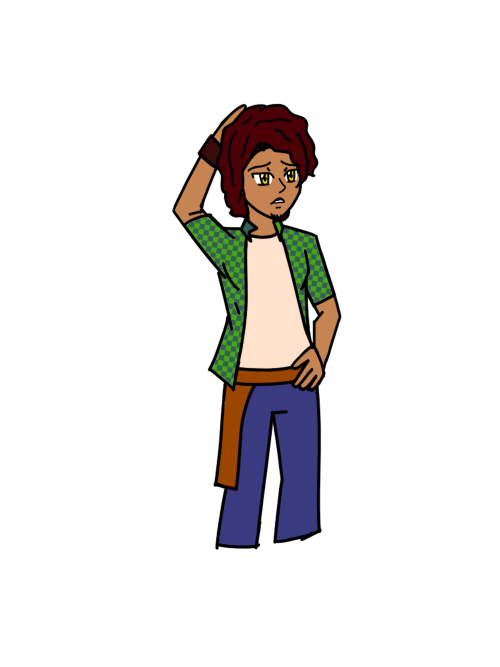
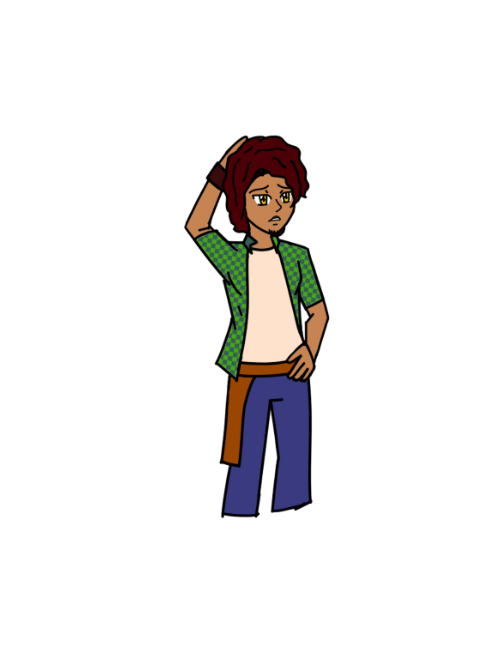
bootstrap and css redo
had to redo all bootstrap media and a few css

Changed region(s): [[0.33, 0.1499, 0.69, 0.8396]]

diff --git a/css/style.css b/css/style.css
@@ -13,7 +13,7 @@ body {
 /* character setup */
 .character {
     position: absolute;
-    margin-top: -36.5%;
+    margin-top: 4%;
     margin-left: 40%;
     height: 452px;
     width: 500px;  
@@ -24,12 +24,6 @@ body {
     background: url(../media/character_draft_introL.png);
 }
 
-.merchant {
-    margin-top: -38.5%;
-    height: 477px;
-    background: url(../media/character-merchant.png);
-}
-
 .hero_happy {
     background: url(../media/character_draft2_happyL.png);
 }
@@ -38,23 +32,27 @@ body {
     background: url(../media/character_draft_upsetL.png);
 }
 
+.merchant {
+    margin-top: 0%;
+    height: 487px;
+    background: url(../media/character-merchantL.png);
+}
+
 .farmer {
     background: url(../media/character-farmerL.png);
 }
 
 .traders {
-    background: url(../media/character-traders.png);
+    background: url(../media/character-tradersL.png);
 }
 
 .granny_happy {
-    margin-top: -38%;
-    height: 470px;
+    height: 454px;
     background: url(../media/character-granny_normalL.png);
 }
 
 .granny_angry {
-    margin-top: -39%;
-    height: 483px;
+    height: 454px;
     background: url(../media/character-granny_attackL.png);
 }
 
@@ -127,6 +125,7 @@ body {
 
 .background {
     background-repeat: no-repeat;
+    background-size: cover;
 }
 
 /* For Storyline */
@@ -151,7 +150,7 @@ li {
 
 .hero_stats {
     position: absolute;
-    margin-top: 25%;
+    margin-top: 23%;
     height: 250px;
     width: 200px;
     background: rgb(153, 33, 160);
@@ -194,7 +193,7 @@ li {
     background: rgb(6, 193, 152);
     border: 3px solid rgb(0, 76, 68);
     border-radius: 20px;
-    font-size: 20px;;
+    font-size: 18px;
 }
 
 .choiceB {
@@ -205,77 +204,12 @@ button {
     color: black;
 }
 
-
-@media (max-width: 475px) {
-    
-    .story_plot {
-        position: absolute;
-        margin-top: 102%;
-        height: 170px;
-        width: 100%;
-        background: rgb(27, 154, 131);
-    }
-
-    .character {
-        position: absolute;
-        margin-top: -9%;
-        margin-left: -14%;
-        height: 439px;
-        width: 333px;
-    }
-
-    .hero {
-        background: url(../media/character_draft_intro.png);
-    }
-
-    .hero_happy {
-        background: url(../media/character_draft2_happy.png);
-    }
-
-    .hero_angry {
-        background: url(../media/character_draft_upset.png);
-    }
-
-    .merchant {
-        background: url(../media/character-merchant.png);   
-    }
-
-    .farmer {
-        margin-top: -11%;
-        margin-left: -19%;
-        height: 451px;
-        width: 343px;
-        background: url(../media/character-farmer.png);
-    }
-
-    .traders {
-        margin-top: -23px;
-        height: 424px;
-        width: 400px;
-        background: url(../media/character-traders.png);
-    }
-
-    .granny_happy {
-        margin-top: -2%;
-        height: 410px;
-        background: url(../media/character-granny_normal.png);
-    }
-
-    .granny_angry {
-        margin-top: -2%;
-        height: 410px;
-        background: url(../media/character-granny_attack.png);
-    }
+@media (max-width: 767px) {
 
     .hero_stats {
         margin-top: 0%;
-        height: 60px;
+        height: 88px;
         width: 100%;
-    }
-
-    .hero_text {
-        margin: 12px 13px 0px;
-        font-size: 15px;    
     }
 
     ul {
@@ -286,72 +220,43 @@ button {
         display: inline;
     }
 
-    .narration {
-        margin-top: 10px;
-        margin-left: 0px;
-        margin-right: 10px;
-        font-size: 10px;    
+    .hero_text {
+        margin: 25px 15px 0px;
+        font-size: 18px;
     }
-
-    /* Buttons */
-
-    .storyBtn {
-        margin-top: 29%;
-        margin-left: 0%;
-        height: 37px;
-        width: 92%;
-        font-size: 15px;
-    }
-
-    .choiceBtn {
-        margin-top: 27%;
-        height: 45px;
-        width: 45%;
-        font-size: 9px;
-    }
-
-    .choiceB {
-        margin-left: 47%;
-    }
-
-}
-
-@media (min-width: 476px) and (max-width: 959px) {
 
     .story_plot {
-        position: absolute;
-        margin-top: 53%;
-        height: 150px;
-        width: 100%;
-
-    }
-
-    .narration {
-        margin-top: 9px;
-        font-size: 11px;
+        margin-top: 100%;
+        height: 250px;
     }
 
     .character {
-        margin-top: -14%;
-        margin-left: 35%;
-        height: 400px;      
+        margin-top: -8%;
+        margin-left: -13%;
+        height: 76%;
+        width: 100%;
     }
 
     .hero {
         background: url(../media/character_draft_intro.png);
-    }
+    } 
 
     .hero_happy {
+        margin-top: 6%;
+        height: 66%;
         background: url(../media/character_draft2_happy.png);
     }
 
     .hero_angry {
+        margin-top: 6%;
+        height: 66%;
         background: url(../media/character_draft_upset.png);
     }
-
+    
     .merchant {
-        margin-top: -10%;
-        height: 373px;
+        margin-top: -9%;
+        height: 77%;
+        background: url(../media/character-merchant.png);
     }
 
     .farmer {
@@ -359,57 +264,45 @@ button {
     }
 
     .traders {
-        margin-left: 15%;
+        margin-top: -2%;
+        height: 72%;
+        background: url(../media/character-traders.png);
     }
 
     .granny_happy {
-        margin-top: -19%;
-        margin-left: 20%;    
-        height: 426px;
         background: url(../media/character-granny_normal.png);
     }
 
     .granny_angry {
-        margin-top: -19%;
-        margin-left: 20%; 
-        height: 426px;
         background: url(../media/character-granny_attack.png);
     }
 
-    .hero_stats {
-        margin-top: 19%;
-        height: 200px;
-        width: 140px;
-    }    
-    
-    .hero_text {
-        margin-top: 10px;
-        font-size: 20px;
-    }
-
-    ul {
-        list-style-type: none;
+    .narration {
+        margin: 15px 5px 0px;
+        font-size: 12px;
     }
 
     .storyBtn {
-        margin-top: 15%;
-        margin-left: 7%;
-        height: 40px;
-        width: 81%;
+        margin-top: 44%;
+        margin-left: 3%;
+        height: 46px;
         font-size: 15px;
     }
 
-    .choiceBtn  {
-        margin-top: 15%;
-        height: 40px;
-        width: 45%;
+    .choiceBtn {
+        margin-top: 32%;
+        height: 47px;
+        width: 92%;
         font-size: 13px;
     }
 
     .choiceB {
-        margin-left: 50%;
+        margin-top: 46%;
+        margin-left: 0%;
     }
 
+
+    
 }
 
 /* Backgrounds: */

diff --git a/js/app.js b/js/app.js
@@ -376,7 +376,7 @@ function storyline() {
 
         narrator.innerText = 'Day 3: The third day is...you know the line. You head off towards the trade market. While there, two traders approch you, selling potions. One tells you that hers grants happiness. The other tells you that hers tastes like grapes and dead fish. You don\'t want either, but since they tell you that they are free samples, you decide to pick one. Which do you choose?';
 
-        choiceA.innerText = 'Yellow! Need a bit of that for this story...';
+        choiceA.innerText = 'Yellow! Need some of that for this story...';
         choiceB.innerText = 'Purple! Why? ...no seriously, why?';
 
         return;
@@ -525,7 +525,7 @@ function storyline() {
         //Characters
         characterBox.classList = '';
 
-        narrator.innerText = 'Well, you\'ve reached the end of this story. more will be coming soon hopefully, whether an addition to this or a new game altogether. Feel free to play again and/or give me feedback if you wish. Either way, thank you for your time and see you soon.'; 
+        narrator.innerText = 'Well, you\'ve reached the end of this story. more will be coming soon hopefully, whether an addition to this or a new game altogether. Feel free to play again and/or give me feedback if you wish. Either way,thank you for your time and see you soon.'; 
 
         story.innerText = 'Let\'s take it from the top!'; //Game resets when clicked
 
